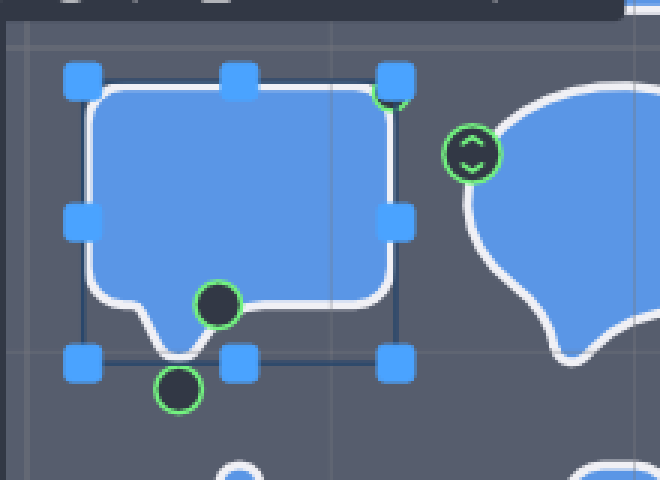
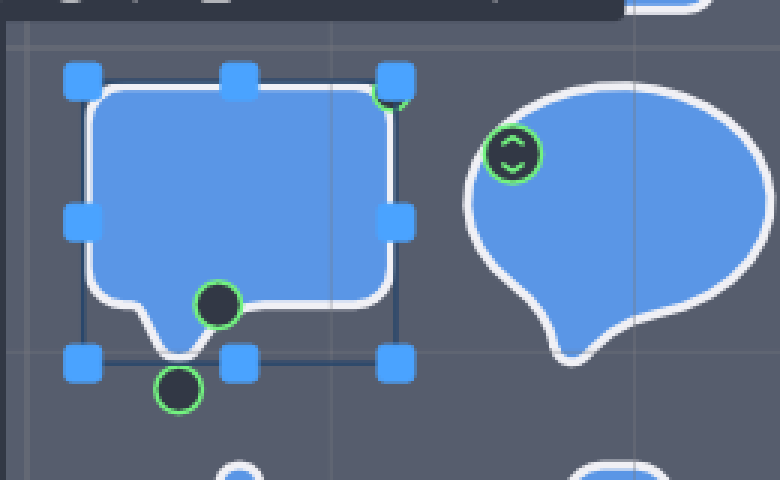
docs(UIUX F14b): a 2.ª redacção do relato 1 (a fila de ⇕ fixa) no doc 25, no handoff (commit, mutações, smoke, binário) e a foto nova

diff --git a/docs/UI_New_and_Simple/handoffs/HANDOFF_INTEGRACAO_line_UIUX_2026-10-13_F14b.md b/docs/UI_New_and_Simple/handoffs/HANDOFF_INTEGRACAO_line_UIUX_2026-10-13_F14b.md
@@ -17,13 +17,15 @@ UI/UX: «… o «Corner round» em toda forma com quina (F14) e o bico dos balõ
 
 | commit | o quê |
 |---|---|
-| `8edf9c75a0` | **1** `spots::rail_grip`: a fila de ⇕ anda um passo (`RAIL_PITCH·park_at` = 27 px) para fora, até `RAIL_SHIFTS = 3`, enquanto algum ⇕ ficar a menos de um passo de um grip não-⇕ (300 casos → 0). **2** `spots::snap_to_ends`: campo contínuo (Nearest/Radial) arrastado a menos de meio pixel do ecrã da ponta vai à ponta (`0` exacto). **3** `bubbles_ring::TIP_OPEN = 0,8`: o bico do balão deixa de ser agulha (0° → 41,9° rect / 34,8° oval). **4** o censo das pontas (lista escrita). Ficheiros: `ph2d-tool-vector` `shape_handles*.rs`, `ph2d-vec-scene` `bubbles_ring.rs` |
+| `8edf9c75a0` | **1** `spots::rail_grip` (1.ª redacção, substituída por `801a9d58d9`): a fila saltava para fora quando um grip chegava perto. **2** `spots::snap_to_ends`: campo contínuo (Nearest/Radial) arrastado a menos de meio pixel do ecrã da ponta vai à ponta (`0` exacto). **3** `bubbles_ring::TIP_OPEN = 0,8`: o bico do balão deixa de ser agulha (0° → 41,9° rect / 34,8° oval). **4** o censo das pontas (lista escrita). Ficheiros: `ph2d-tool-vector` `shape_handles*.rs`, `ph2d-vec-scene` `bubbles_ring.rs` |
 | `d49dd02b16` | O oráculo VectorCraft (`ph2d-vec-boolean`, `oracle_vectorcraft`) **regravado** sobre os balões novos (receita do `oraculo_vc.py`; só as 36 linhas dos dois balões mudaram, o resto byte a byte): as duas discordâncias do SpeechRect `offset … 0.4` (a cúspide da cauda, BUGS_vector #39) concordam agora e saem do `DISAGREE`. Apanhado pela suíte do fecho (1/18 900) |
+| `801a9d58d9` | **2.ª redacção do relato 1** (o dono, com duas fotos: «não fixou afastado um do outro. a posição está variando»): a fila de ⇕ num lugar FIXO — `RAIL_OUT = 1,5` passo à direita da caixa VISÍVEL (`visible_bbox`, com os sub-contornos), a `h/4` do topo; nenhum grip do catálogo passa dessa borda (medido), par mais perto 32,8 px |
 
 ## §2 — Medido e decidido
 
-- **Leitura pelos trilhos recusada** para a fila de ⇕: 0,27–21 ms/quadro (Star 21 ms), 4–38× os grips.
-  Custo da cura (debug): SpeechRect 110 → 90 µs · Star 0,55 → 1,27 ms · Gear 0,50 → 0,42 ms · IsoCube 49 → 34 µs.
+- **A fila que salta foi RECUSADA pelo dono** (*«não fixou afastado um do outro. a posição está variando»*):
+  a cura é um lugar FIXO (doc 25 §1). Recusadas também: a leitura pelos trilhos (0,27–21 ms/quadro) e
+  qualquer posição que leia as outras alças (muda com o arrasto).
 - **Radius no canto** guardava `3,9e-8`–`2e-5` px (mínimo plano + desempate pelo valor do PRESS); com isso o
   Corner round da F14 deixava de arredondar o canto. O encaixe mede pela TAXA junto da ponta: trilho
   saturado nunca encaixa.
@@ -52,7 +54,8 @@ UI/UX: «… o «Corner round» em toda forma com quina (F14) e o bico dos balõ
 
 | mutação | vermelho em |
 |---|---|
-| `RAIL_SHIFTS 3 → 0` | `no_arrow_lands_on_another_handle`: 319 ⇕ sobre um grip (a 1.ª redacção ficou vermelha pelo CONTROLO; a ordem dos asserts foi trocada para a lei vir primeiro) |
+| `RAIL_OUT 1,5 → 0` | `no_arrow_lands_on_another_handle`: 332 ⇕ sobre um grip |
+| `visible_bbox` → `curve_bbox` no `rail_grip` | `the_arrow_row_has_a_fixed_place_beside_the_visible_box`: o pensamento (as bolhas fora da caixa do contorno principal) |
 | encaixe desligado (`if false && !int`) | `a_rounding_dragged_to_the_corner_is_exactly_zero`: «SpeechRect alça 0: a quina guardou 3,88e-8» |
 | `TIP_OPEN 0,8 → 0` | `the_speech_tips_have_an_angle` (0,0°) e `the_zero_angle_cusps_are_the_written_list` (com SpeechRect/SpeechOval) |
 
@@ -62,7 +65,7 @@ Binário: `--profile smoke`. Fotos de hoje: `/var/tmp/ph2d_F14b/fotos/` (cópias
 
 1. `cd /home/enio/Documentos/Projetos/PH2D/Worktrees/line-UIUX && PH2D_OBJECT_MODE_SMOKE=21 PH2D_CENA21_FICA=18 ./target/smoke/ph2d-host-desktop`
 2. Na tela: o balão de fala (Speech) já vem seleccionado. Olhe as setas ⇕ à direita.
-3. Tem de acontecer: as setas ficam UM PASSO por fora da caixa, longe do círculo do *Radius*. Deu errado se alguma seta cobre um círculo.
+3. Tem de acontecer: a seta fica a ~40 px à direita da caixa, no MESMO lugar enquanto se arrasta o círculo do *Radius* para cima e para baixo. Deu errado se ela salta ou cobre um círculo.
 4. Repita com `PH2D_OBJECT_MODE_SMOKE=18` (traço 16 px, ponta em bico): o rabo do balão termina em PONTA, não em toco quadrado.
 5. Na cena 21, arraste o círculo do *Radius* até o canto e além: o campo mostra `0` e os quatro cantos do corpo continuam redondos pelo *Corner round* que a cena subiu (~20 px) — antes ficavam VIVOS (o raio guardado era uma fracção que o *Corner round* não arredondava). **Se aparecerem orelhas no traço, fotografe e mande** (ABERTO 1).
 
@@ -81,5 +84,7 @@ Binário: `--profile smoke`. Fotos de hoje: `/var/tmp/ph2d_F14b/fotos/` (cópias
   **18 899 / 18 900** — o vermelho era o oráculo VectorCraft (3/3 sozinho a `load` 32–44, não flake) ⇒
   `d49dd02b16`; 2.ª e última: **`nextest-impacted` 18 900 / 18 900** (9 967 pulados, 475 s). Clippy do
   `ship.sh` (`--workspace --all-targets -D warnings`) ✓ · `fmt --check` ✓ · `check --workspace --all-targets` ✓.
+- **`801a9d58d9` depois do portão** (2.ª redacção do relato 1, só `ph2d-tool-vector`): pela regra de 13/10, só os
+  testes por nome — `shape_handles` 40/40, clippy da crate `-D warnings` ✓, `fmt` ✓ (1 commit desde a suíte verde).
 - **Binário de smoke** (`bash scripts/ph2d-run.sh cargo build -p ph2d-host-desktop --profile smoke`), 2.ª
-  corrida: `Finished \`smoke\` profile [optimized] target(s) in 0.24s` (zero `Compiling`).
+  corrida, HEAD `801a9d58d9`: `Finished \`smoke\` profile [optimized] target(s) in 0.29s` (zero `Compiling`).

diff --git a/docs/UI_New_and_Simple/vetor_nova_ui/25_os_tres_relatos_da_F14.md b/docs/UI_New_and_Simple/vetor_nova_ui/25_os_tres_relatos_da_F14.md
@@ -13,12 +13,18 @@
   **300 casos** de ⇕ a menos de 24 px do grip de outra alça, em 9 formas. SpeechRect 47/55 (pior 5,8 px,
   no padrão), RoundRect 34/46 (18,9 px), IsoCube 37/37 a **0,0 px** (o vértice 0 da profundidade É o
   sítio do 1.º ⇕), mais Drop, IsoCone, IsoPyramid, Star, Spiral, ArrowDouble, Thought, Burst.
-- **Cura** (`spots::rail_grip`): a fila INTEIRA anda um passo (`RAIL_PITCH·park_at` = 27 px) para fora,
-  até `RAIL_SHIFTS = 3`, enquanto algum ⇕ ficar a menos de um passo de um grip não-⇕. Depois: **0**. O
-  F13 D (caixa baixa → meia altura por fora) fica.
-- **Custo** (debug, por quadro): SpeechRect 110 → 90 µs · Star 0,55 → 1,27 ms · IsoCube 49 → 34 µs.
-- **Gates**: `no_arrow_lands_on_another_handle`; `the_arrows_stand_side_by_side_outwards` aceita passos
-  inteiros por fora (0..3). Foto: [`f14b_01`](fotos/f14b_01_cena21_o_speech_com_o_seta_um_passo_por_fora.png).
+- **1.ª cura, RECUSADA pelo dono** (`801a9d58d9` a substitui): a fila andava um passo para fora (até 3)
+  só quando um grip chegava perto — 300 → 0, mas *«não fixou afastado um do outro. a posição está
+  variando»* (duas fotos: o ⇕ saltava da borda para fora ao arrastar o *Radius*).
+- **Cura** (`spots::rail_grip`): a fila tem um lugar FIXO na caixa VISÍVEL (`visible_bbox`: o contorno
+  E os sub-contornos — a do contorno principal deixava as bolhas do pensamento 68 px fora):
+  `RAIL_OUT = 1,5` passo (40 px) à direita da borda, a `h/4` do topo (caixa baixa: meia altura, F13 D).
+  Medido antes de escolher: nenhum grip do catálogo passa da borda direita da caixa visível, em todo
+  valor de cada campo, a 100×95,4 · 200×100 · 200×400 · 60×200 px. Depois: o par ⇕↔grip mais perto a
+  **32,8 px**; a fila nunca anda quando outra alça anda. Custo: zero (não lê as outras alças).
+- **Gates**: `the_arrow_row_has_a_fixed_place_beside_the_visible_box` (todo valor de cada campo;
+  vermelho com a caixa só do contorno principal) e `no_arrow_lands_on_another_handle` (vermelho com
+  `RAIL_OUT = 0`: 332). Foto: [`f14b_01`](fotos/f14b_01_cena21_o_speech_com_o_seta_um_passo_por_fora.png).
 
 ## §2 — «Radius 0» e as orelhas
 
